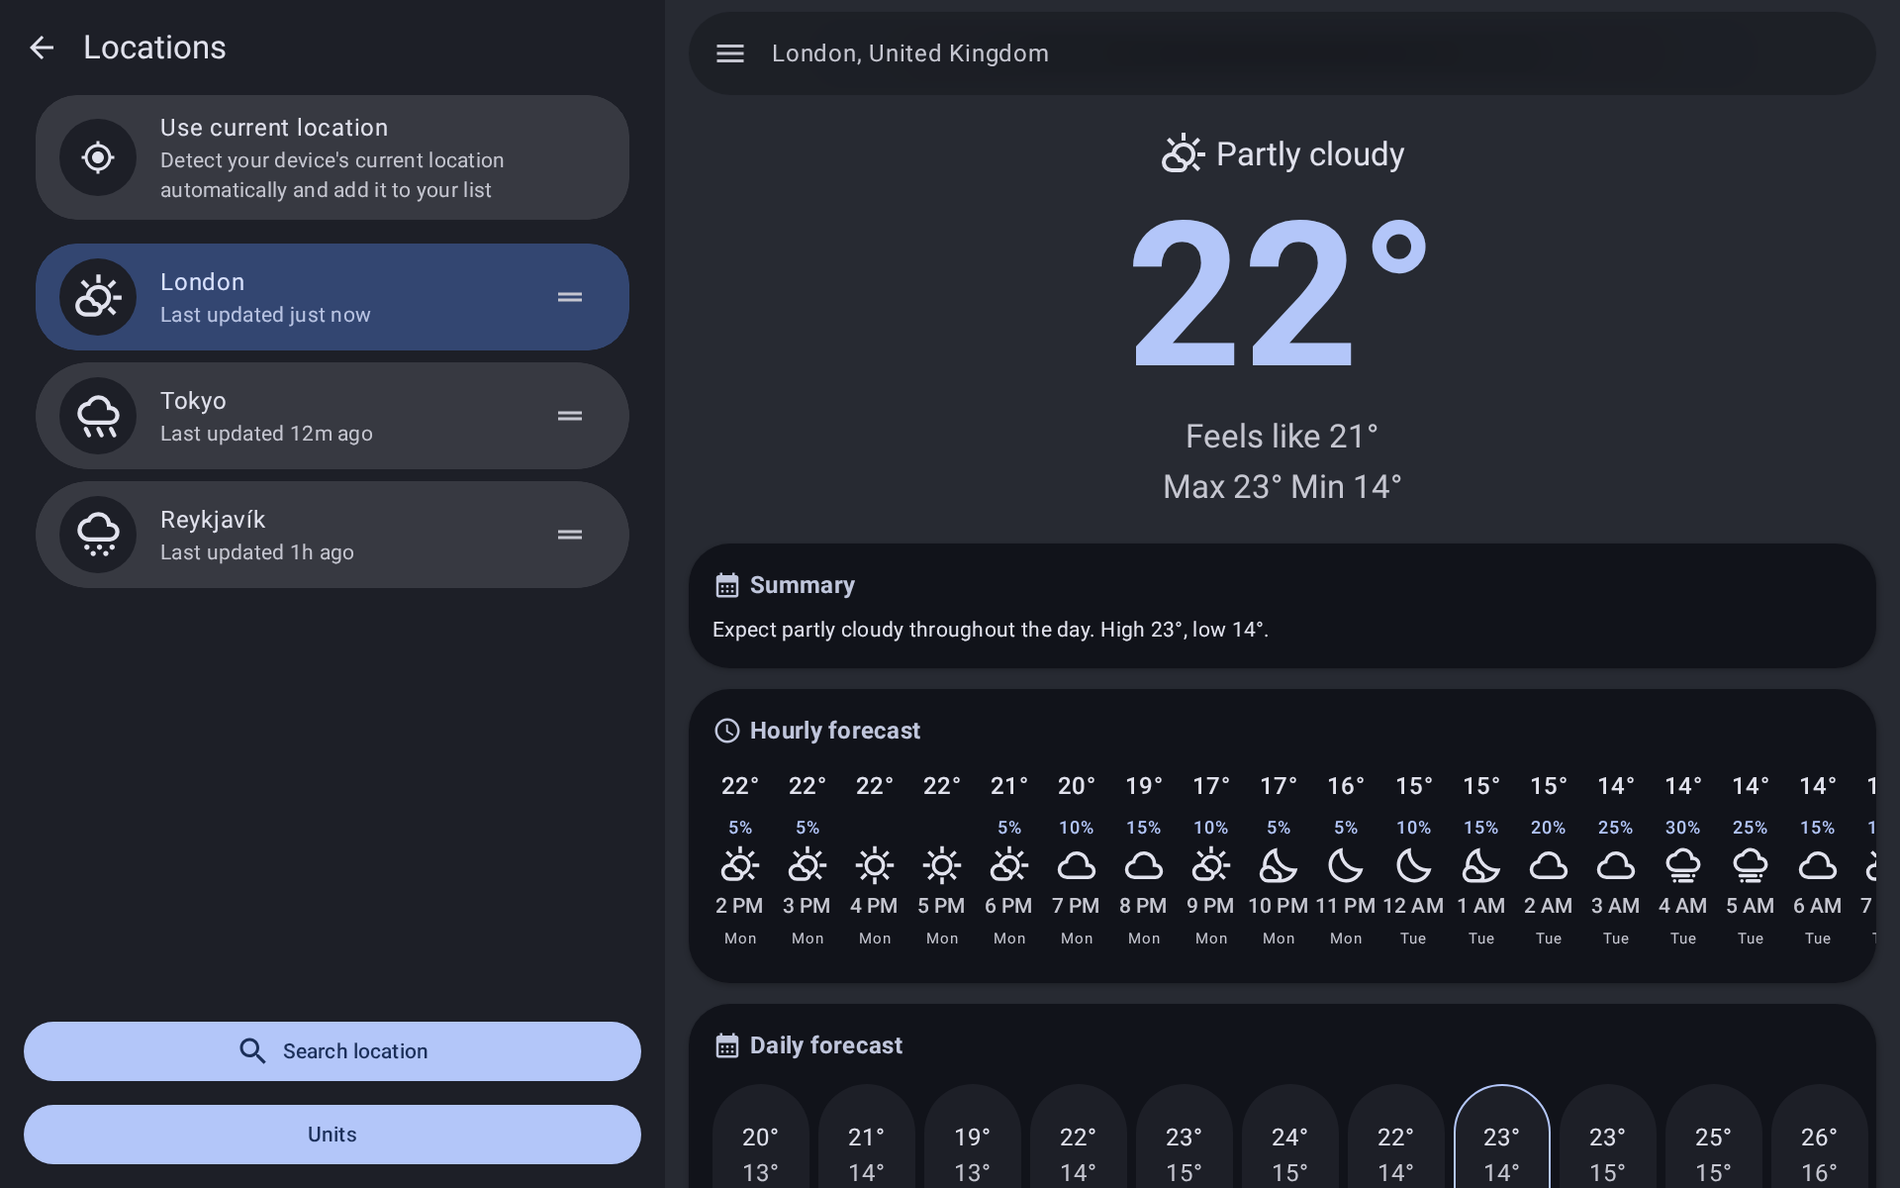
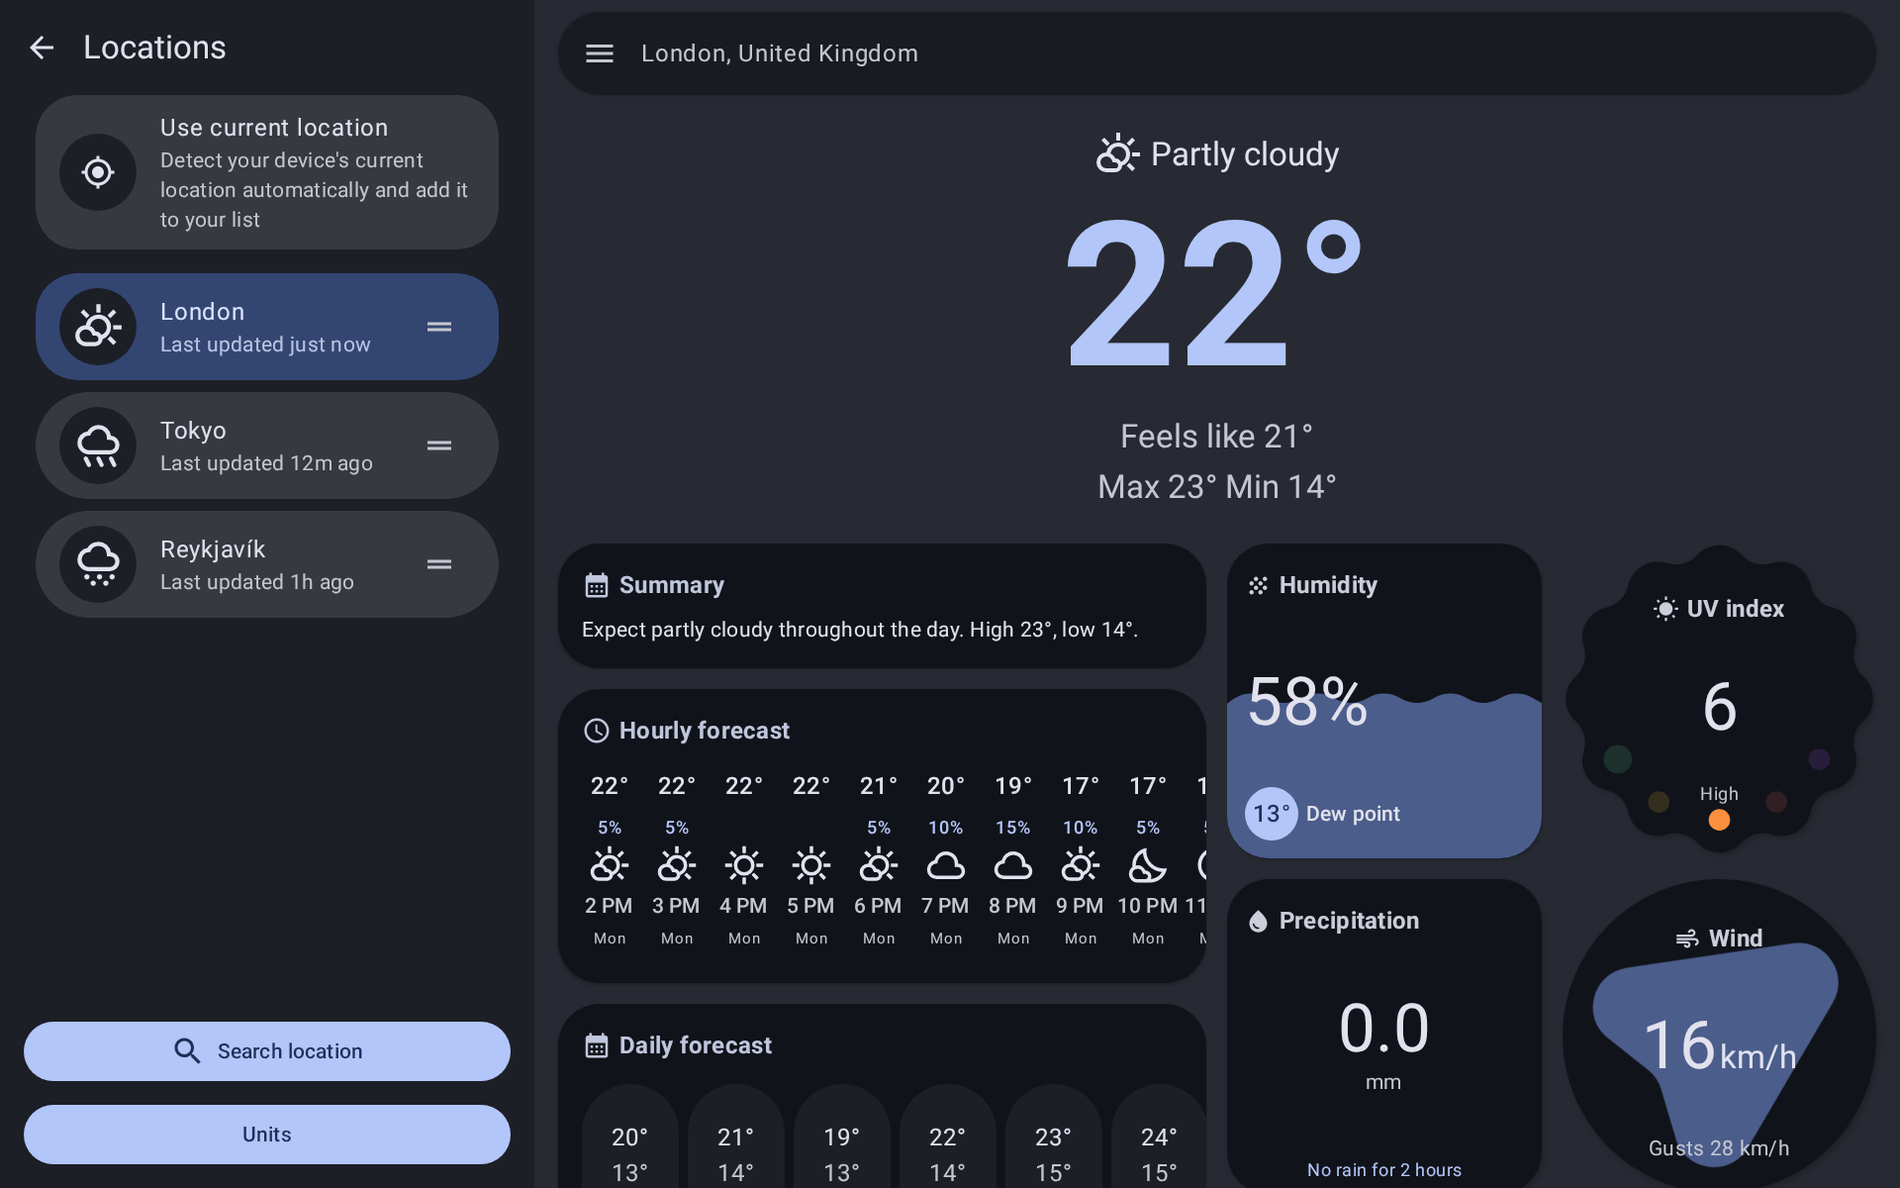
weather: use full width in landscape, don't squeeze to a third (#945)
In released v2.6.11b both Home and WeatherMap routes carried ListPage metadata, so on >=600dp windows the shared ListDetailSceneStrategy put the whole forecast into its ~1/3-width list pane beside an empty detail pane — the narrow left column in the report (landscape Pixel is expanded width). That metadata is already gone in the current tree; the remaining defects fixed here: HomeScreen sized itself from the activity window class rather than its available width, the expanded locations panel was an uncapped fillMaxWidth(0.35f), and medium/expanded forecasts were one phone column stretched full-width.

New pure domain/HomeLayout (breakpoints 600/840dp, forecast column counts, locations panel 30% clamped 280-360dp); HomeScreen lays out from BoxWithConstraints available width (expanded: bounded panel + weight(1f) forecast, always >=~60%); medium width renders the forecast wide (summary/hourly/daily + metrics in a second column). Portrait compact path is unchanged.

Tests: HomeLayoutTest 5/5 (incl. a regression asserting the forecast beside the panel is never the ~1/3 column at 840-1920dp), ComposeScreensTest 12/12, :weather:testDevUnitTest green; :weather:metadata regenerated (large-tablet capture shows bounded panel + two-column forecast). Lint has only the 3 pre-existing RouteScreenshotCoverage errors on untouched Route.kt.

diff --git a/weather/src/main/java/com/vayunmathur/weather/ui/HomeScreen.kt b/weather/src/main/java/com/vayunmathur/weather/ui/HomeScreen.kt
@@ -13,6 +13,7 @@ import androidx.compose.foundation.layout.fillMaxSize
 import androidx.compose.foundation.layout.fillMaxWidth
 import androidx.compose.foundation.layout.height
 import androidx.compose.foundation.layout.padding
+import androidx.compose.foundation.layout.width
 import androidx.compose.foundation.rememberScrollState
 import androidx.compose.foundation.verticalScroll
 import com.vayunmathur.library.ui.AppScaffold
@@ -64,6 +65,10 @@ import com.vayunmathur.weather.domain.parseLocalIsoToEpochSec
 import com.vayunmathur.weather.domain.resolveConditions
 import com.vayunmathur.weather.platform.WeatherActions
 import com.vayunmathur.weather.platform.WeatherViewModel
+import com.vayunmathur.weather.domain.forecastColumnCount
+import com.vayunmathur.weather.domain.homeLayoutForWidthDp
+import com.vayunmathur.weather.domain.homeUsesPermanentLocationsPanel
+import com.vayunmathur.weather.domain.locationsPanelWidthDp
 import com.vayunmathur.weather.platform.precipitationNowcast
 import com.vayunmathur.weather.platform.rememberDisplayUnits
 import kotlinx.coroutines.delay
@@ -95,17 +100,56 @@ fun HomeScreen(
     val scope = rememberCoroutineScope()
     BackHandler(enabled = drawerState.isOpen) { scope.launch { drawerState.close() } }
 
-    // Expanded windows (large tablets, desktop) pin the locations list as a
-    // permanent side panel next to the forecast instead of hiding it in a modal
-    // drawer — there is room for both, and picking another location without
-    // losing the current forecast is the point of the wide layout. The panel
-    // fills a fraction of the window rather than a fixed dp so it scales from
-    // an 840dp tablet to a full desktop window.
-    if (isExpandedWidth()) {
-        Row(modifier = Modifier.fillMaxSize()) {
-            Box(modifier = Modifier.fillMaxWidth(0.35f).fillMaxHeight()) {
-                drawerContent()
+    // Lay out for the width actually available here, not the activity
+    // window: hosted in a pane, this screen must size itself to the pane.
+    // (The released squeeze came from the opposite assumption upstream —
+    // the navigation host confined this screen to a list pane while it
+    // still laid out as if it owned the whole window.)
+    androidx.compose.foundation.layout.BoxWithConstraints(modifier = Modifier.fillMaxSize()) {
+        val availableWidthDp = maxWidth.value.toInt()
+        val layout = homeLayoutForWidthDp(availableWidthDp)
+        val wide = forecastColumnCount(layout) > 1
+
+        // Expanded windows (large tablets, desktop) pin the locations list
+        // as a permanent side panel next to the forecast instead of hiding
+        // it in a modal drawer — there is room for both, and picking another
+        // location without losing the current forecast is the point of the
+        // wide layout. The panel is a bounded list width (280–360dp), so
+        // the forecast keeps the majority of the window at any size.
+        if (homeUsesPermanentLocationsPanel(layout)) {
+            Row(modifier = Modifier.fillMaxSize()) {
+                Box(
+                    modifier = Modifier
+                        .width(locationsPanelWidthDp(availableWidthDp).dp)
+                        .fillMaxHeight(),
+                ) {
+                    drawerContent()
+                }
+                ForecastScaffold(
+                    state = state,
+                    units = units,
+                    actions = actions,
+                    drawerState = drawerState,
+                    precipitationNowcast = precipitationNowcast,
+                    nowEpochSec = nowEpochSec,
+                    onOpenMap = onOpenMap,
+                    wide = wide,
+                    modifier = Modifier.weight(1f).fillMaxHeight(),
+                )
             }
+            return@BoxWithConstraints
+        }
+
+        ModalNavigationDrawer(
+            drawerState = drawerState,
+            drawerContent = {
+                ModalDrawerSheet(
+                    drawerContainerColor = MaterialTheme.colorScheme.surfaceContainer,
+                ) {
+                    drawerContent()
+                }
+            },
+        ) {
             ForecastScaffold(
                 state = state,
                 units = units,
@@ -114,30 +158,8 @@ fun HomeScreen(
                 precipitationNowcast = precipitationNowcast,
                 nowEpochSec = nowEpochSec,
                 onOpenMap = onOpenMap,
-                modifier = Modifier.weight(1f).fillMaxHeight(),
+                wide = wide,
             )
         }
-        return
-    }
-
-    ModalNavigationDrawer(
-        drawerState = drawerState,
-        drawerContent = {
-            ModalDrawerSheet(
-                drawerContainerColor = MaterialTheme.colorScheme.surfaceContainer,
-            ) {
-                drawerContent()
-            }
-        },
-    ) {
-        ForecastScaffold(
-            state = state,
-            units = units,
-            actions = actions,
-            drawerState = drawerState,
-            precipitationNowcast = precipitationNowcast,
-            nowEpochSec = nowEpochSec,
-            onOpenMap = onOpenMap,
-        )
     }
 }

diff --git a/weather/src/main/java/com/vayunmathur/weather/ui/ForecastColumn.kt b/weather/src/main/java/com/vayunmathur/weather/ui/ForecastColumn.kt
@@ -55,6 +55,8 @@ internal fun ForecastColumn(
     precipitationNowcast: String?,
     nowEpochSec: Long,
     onOpenMap: (WeatherMetric, String?) -> Unit,
+    /** Medium/expanded widths: show the cards in two columns instead of one stretched column. */
+    wide: Boolean = false,
 ) {
     var graphMetric by remember { mutableStateOf<WeatherMetric?>(null) }
 
@@ -115,7 +117,77 @@ internal fun ForecastColumn(
                     tempUnit = units.temperature,
                 )
             }
-            Column(
+            // Wide windows show more at once: the forecast strips in one
+            // column, the metric blocks in another, instead of one phone
+            // column stretched across the whole width. Compact keeps the
+            // single column below (same code path as before).
+            if (wide && current != null && resolved != null) {
+                androidx.compose.foundation.layout.Row(
+                    modifier = Modifier.padding(
+                        start = 16.dp,
+                        end = 16.dp,
+                        top = 24.dp,
+                        bottom = paddingValues.calculateBottomPadding(),
+                    ),
+                    horizontalArrangement = Arrangement.spacedBy(14.dp),
+                ) {
+                    Column(
+                        modifier = Modifier.weight(1f),
+                        verticalArrangement = Arrangement.spacedBy(14.dp),
+                    ) {
+                        if (selected == null) {
+                            SummaryCard(forecast = forecast, tempUnit = units.temperature)
+                        }
+                        if (forecast.hourly != null) {
+                            HourlyCard(
+                                hourly = forecast.hourly,
+                                tempUnit = units.temperature,
+                                utcOffsetSeconds = forecast.utcOffsetSeconds,
+                                use24Hour = units.use24Hour,
+                                selectedIsoTime = (selected as? SelectedDateOrTime.Time)?.isoTime,
+                                onHourSelected = { actions.toggleTime(it) },
+                                scrollToIsoDate = (selected as? SelectedDateOrTime.Day)?.isoDate,
+                                nowIsoHour = forecast.current?.time?.take(13)?.let { "$it:00" },
+                                nowEpochSec = nowEpochSec,
+                            )
+                        }
+                        if (daily != null) {
+                            DailyCard(
+                                daily = daily,
+                                tempUnit = units.temperature,
+                                selectedIsoDate = (selected as? SelectedDateOrTime.Day)?.isoDate,
+                                onDaySelected = { actions.toggleDay(it) },
+                                todayIsoDate = forecast.current?.time?.substringBefore('T'),
+                            )
+                        }
+                    }
+                    Column(
+                        modifier = Modifier.weight(1f),
+                        verticalArrangement = Arrangement.spacedBy(14.dp),
+                    ) {
+                        WeatherBlocks(
+                            current = resolved.blockCurrent,
+                            uvIndex = resolved.uvIndexMax,
+                            air = state.airQuality,
+                            sunriseEpochSec = resolved.sunriseIso?.let { parseLocalIsoToEpochSec(it, forecast.utcOffsetSeconds) },
+                            sunsetEpochSec = resolved.sunsetIso?.let { parseLocalIsoToEpochSec(it, forecast.utcOffsetSeconds) },
+                            precipitationMm = resolved.precipitationSum,
+                            precipitationNowcast = precipitationNowcast,
+                            daylightDurationSec = resolved.daylightDurationSec,
+                            moonPhase = resolved.moonPhase,
+                            moonriseEpochSec = resolved.moonriseIso?.let { parseLocalIsoToEpochSec(it, forecast.utcOffsetSeconds) },
+                            moonsetEpochSec = resolved.moonsetIso?.let { parseLocalIsoToEpochSec(it, forecast.utcOffsetSeconds) },
+                            onMetricSelected = { graphMetric = it },
+                            tempUnit = units.temperature,
+                            windUnit = units.wind,
+                            pressureUnit = units.pressure,
+                            use24Hour = units.use24Hour,
+                            nowEpochSec = nowEpochSec,
+                            utcOffsetSeconds = forecast.utcOffsetSeconds,
+                        )
+                    }
+                }
+            } else Column(
                 // Include the navigation-bar inset so the last cards (Air quality /
                 // Pollen) clear the system nav bar and can scroll fully into view.
                 modifier = Modifier.padding(

diff --git a/weather/src/test/java/com/vayunmathur/weather/domain/HomeLayoutTest.kt b/weather/src/test/java/com/vayunmathur/weather/domain/HomeLayoutTest.kt
@@ -1,0 +1,53 @@
+package com.vayunmathur.weather.domain
+
+import kotlin.test.Test
+import kotlin.test.assertEquals
+import kotlin.test.assertFalse
+import kotlin.test.assertTrue
+
+class HomeLayoutTest {
+
+    @Test fun breakpointsMatchWindowSizeClasses() {
+        assertEquals(HomeLayout.Compact, homeLayoutForWidthDp(0))
+        assertEquals(HomeLayout.Compact, homeLayoutForWidthDp(411))
+        assertEquals(HomeLayout.Compact, homeLayoutForWidthDp(599))
+        assertEquals(HomeLayout.Medium, homeLayoutForWidthDp(600))
+        assertEquals(HomeLayout.Medium, homeLayoutForWidthDp(839))
+        assertEquals(HomeLayout.Expanded, homeLayoutForWidthDp(840))
+        assertEquals(HomeLayout.Expanded, homeLayoutForWidthDp(1280))
+    }
+
+    @Test fun onlyExpandedPinsLocationsPanel() {
+        assertFalse(homeUsesPermanentLocationsPanel(HomeLayout.Compact))
+        assertFalse(homeUsesPermanentLocationsPanel(HomeLayout.Medium))
+        assertTrue(homeUsesPermanentLocationsPanel(HomeLayout.Expanded))
+    }
+
+    @Test fun wideLayoutsShowTwoForecastColumns() {
+        assertEquals(1, forecastColumnCount(HomeLayout.Compact))
+        assertEquals(2, forecastColumnCount(HomeLayout.Medium))
+        assertEquals(2, forecastColumnCount(HomeLayout.Expanded))
+    }
+
+    @Test fun panelIsBoundedAndForecastKeepsMajority() {
+        // Panel clamps to 280-360dp however wide the window gets.
+        assertEquals(280, locationsPanelWidthDp(840))
+        assertEquals(300, locationsPanelWidthDp(1000))
+        assertEquals(360, locationsPanelWidthDp(1280))
+        assertEquals(360, locationsPanelWidthDp(2560))
+        // Regression for the landscape squeeze: the forecast beside the
+        // panel is never the narrow (~1/3) column — it keeps >= 60%.
+        for (width in listOf(840, 985, 1280, 1920)) {
+            val layout = homeLayoutForWidthDp(width)
+            val forecast = forecastWidthDp(width, layout)
+            assertTrue(forecast * 5 >= width * 3, "forecast $forecast of $width")
+            assertEquals(width - locationsPanelWidthDp(width), forecast)
+        }
+    }
+
+    @Test fun nonExpandedForecastUsesFullWidth() {
+        assertEquals(411, forecastWidthDp(411, HomeLayout.Compact))
+        // A landscape phone (medium) gets the whole width, not a pane of it.
+        assertEquals(800, forecastWidthDp(800, HomeLayout.Medium))
+    }
+}

diff --git a/weather/src/main/java/com/vayunmathur/weather/domain/HomeLayout.kt b/weather/src/main/java/com/vayunmathur/weather/domain/HomeLayout.kt
@@ -1,0 +1,53 @@
+package com.vayunmathur.weather.domain
+
+/**
+ * How the home forecast lays out for the width it is actually given.
+ *
+ * Pure width math (no Android/Compose) so the breakpoints are unit-testable
+ * and so [com.vayunmathur.weather.ui.HomeScreen] can key off its available
+ * constraints rather than the activity window: a screen hosted in a narrow
+ * pane must lay out for that pane, never for the wider window around it.
+ * The thresholds mirror the shared window-size breakpoints (600dp medium,
+ * 840dp expanded).
+ */
+enum class HomeLayout {
+    /** Portrait phones: modal locations drawer, single forecast column. */
+    Compact,
+
+    /** Landscape phones and small tablets: full-width forecast, two card columns. */
+    Medium,
+
+    /** Large tablets/desktop: permanent locations panel beside a two-column forecast. */
+    Expanded,
+}
+
+/** The [HomeLayout] for an available width of [widthDp] dp. */
+fun homeLayoutForWidthDp(widthDp: Int): HomeLayout = when {
+    widthDp >= 840 -> HomeLayout.Expanded
+    widthDp >= 600 -> HomeLayout.Medium
+    else -> HomeLayout.Compact
+}
+
+/** Only expanded windows pin the locations list beside the forecast. */
+fun homeUsesPermanentLocationsPanel(layout: HomeLayout): Boolean =
+    layout == HomeLayout.Expanded
+
+/** Card columns in the forecast body: one on compact, two on anything wider. */
+fun forecastColumnCount(layout: HomeLayout): Int =
+    if (layout == HomeLayout.Compact) 1 else 2
+
+/**
+ * Width of the permanent locations panel on expanded windows: 30% of the
+ * window, clamped to 280–360dp so the panel stays a list (not a second
+ * forecast) and the forecast always keeps at least ~60% of the width.
+ */
+fun locationsPanelWidthDp(windowWidthDp: Int): Int =
+    (windowWidthDp * 30 / 100).coerceIn(280, 360)
+
+/** Width left for the forecast beside the panel (full width without a panel). */
+fun forecastWidthDp(windowWidthDp: Int, layout: HomeLayout): Int =
+    if (homeUsesPermanentLocationsPanel(layout)) {
+        windowWidthDp - locationsPanelWidthDp(windowWidthDp)
+    } else {
+        windowWidthDp
+    }

diff --git a/weather/src/main/java/com/vayunmathur/weather/ui/HomePage.kt b/weather/src/main/java/com/vayunmathur/weather/ui/HomePage.kt
@@ -25,7 +25,6 @@ import com.vayunmathur.library.ui.MaterialTheme
 import com.vayunmathur.library.ui.ModalDrawerSheet
 import com.vayunmathur.library.ui.ModalNavigationDrawer
 import com.vayunmathur.library.ui.OutlinedButton
-import com.vayunmathur.library.ui.Scaffold
 import com.vayunmathur.library.ui.Text
 import com.vayunmathur.library.ui.rememberDrawerState
 import com.vayunmathur.library.ui.isExpandedWidth
@@ -87,9 +86,7 @@ fun HomePage(
         // Room hasn't answered yet. Hold a plain surface rather than falling
         // through to EmptyHome, which would flash the location chooser on
         // every cold start before the saved rows arrive.
-        // RAW SCAFFOLD EXCEPTION: cold-start placeholder — a bare, bar-less,
-        // content-less surface. No shared scaffold applies (they all draw chrome).
-        Scaffold(containerColor = MaterialTheme.colorScheme.surfaceContainerHigh) {}
+        AppScaffold(topBar = {}, containerColor = MaterialTheme.colorScheme.surfaceContainerHigh) {}
         return
     }
 
@@ -198,12 +195,11 @@ internal fun ForecastScaffold(
     nowEpochSec: Long,
     onOpenMap: (WeatherMetric, String?) -> Unit,
     modifier: Modifier = Modifier,
+    /** Two card columns instead of one stretched column (medium/expanded widths). */
+    wide: Boolean = false,
 ) {
-    Scaffold(
-        // RAW SCAFFOLD EXCEPTION: bespoke full-bleed home. The forecast
-        // scrolls under a floating in-content MainSearchBar (there is no top
-        // app bar), inside a ModalNavigationDrawer, and the
-        // body consumes the scaffold insets itself. No shared scaffold fits.
+    AppScaffold(
+        topBar = {},
         modifier = modifier,
         containerColor = MaterialTheme.colorScheme.surfaceContainerHigh,
     ) { paddingValues ->
@@ -216,6 +212,7 @@ internal fun ForecastScaffold(
             precipitationNowcast = precipitationNowcast,
             nowEpochSec = nowEpochSec,
             onOpenMap = onOpenMap,
+            wide = wide,
         )
     }
 }

diff --git a/weather/src/test/java/com/vayunmathur/weather/ui/ComposeScreensTest.kt b/weather/src/test/java/com/vayunmathur/weather/ui/ComposeScreensTest.kt
@@ -144,6 +144,24 @@ class ComposeScreensTest {
         rule.waitForIdle()
     }
 
+    @Test fun forecastColumnWide() {
+        rule.setContent {
+            ForecastColumn(
+                state = LocationUiState(location = loc(), forecast = forecast()),
+                units = DisplayUnits(),
+                actions = WeatherActions.Noop,
+                drawerState = rememberDrawerState(DrawerValue.Closed),
+                paddingValues = PaddingValues(0.dp),
+                precipitationNowcast = null,
+                nowEpochSec = 1760000000L,
+                onOpenMap = { _, _ -> },
+                wide = true,
+            )
+        }
+        rule.onNodeWithText("Berlin", substring = true).assertIsDisplayed()
+        rule.onAllNodesWithText("25°")[0].assertIsDisplayed()
+    }
+
     @Test fun homeScreenCompact() {
         rule.setContent {
             HomeScreen(

diff --git a/weather/AGENTS.md b/weather/AGENTS.md
@@ -37,6 +37,7 @@ _Install: ./install weather (dev by default)._
 - com/vayunmathur/weather/data/WeatherRefreshWorker.kt
 - com/vayunmathur/weather/data/SavedLocation.kt
 ### domain/ + domain/map/ — pure formatting + map metadata (no Android)
+- com/vayunmathur/weather/domain/HomeLayout.kt — pure home width breakpoints (600/840dp): compact = modal drawer + single column, medium = full-width two-column forecast, expanded = bounded 280–360dp locations panel + two-column forecast; the home screen sizes itself from its available width, not the activity window
 - com/vayunmathur/weather/domain/WmoCode.kt
 - com/vayunmathur/weather/domain/UnitFormat.kt
 - com/vayunmathur/weather/domain/DateTimeFormat.kt
